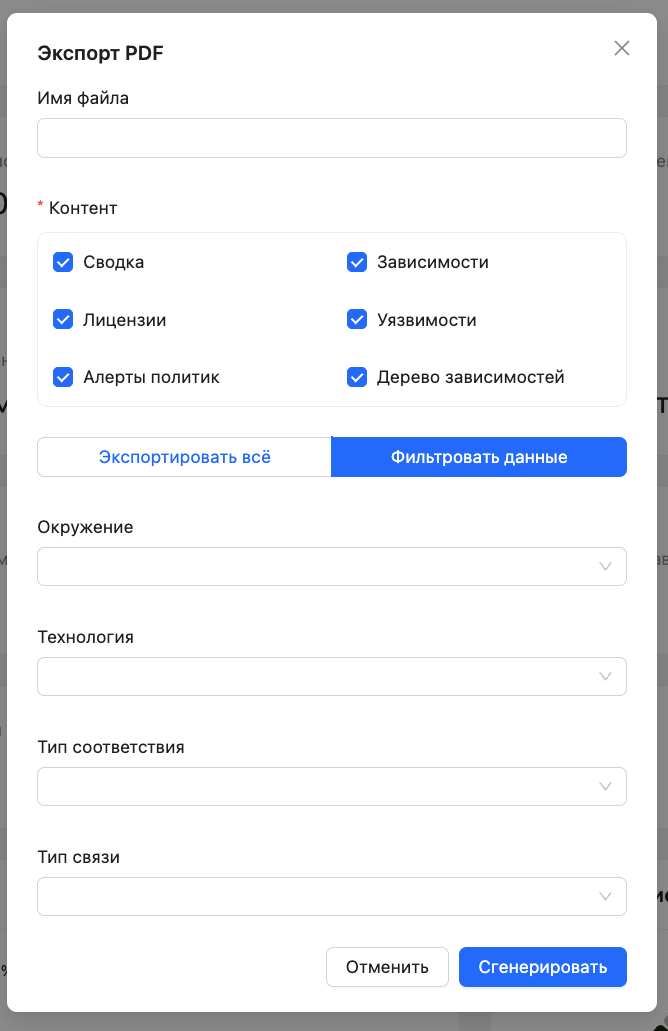
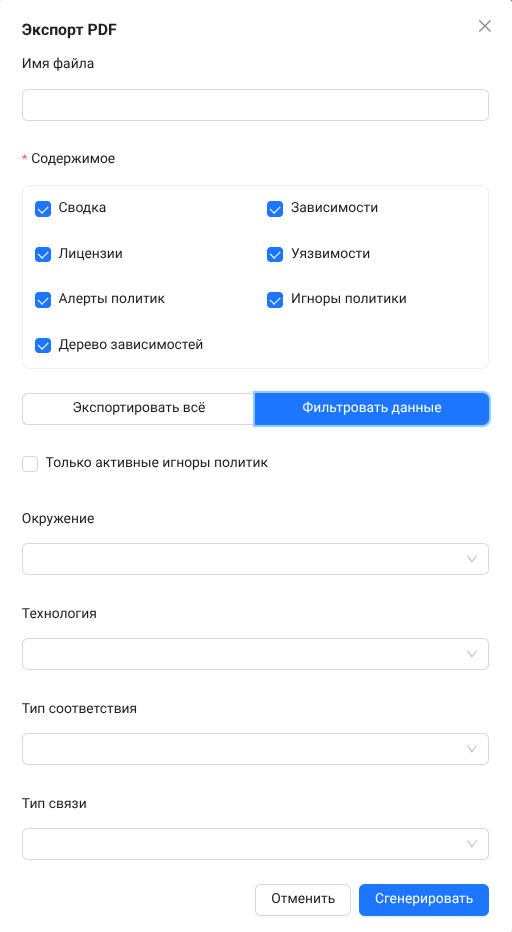
Добавлено в описание отчета игноры и обновлены скриншоты

diff --git a/docs/sca/export-results.md b/docs/sca/export-results.md
@@ -27,6 +27,7 @@ CSV-таблица будет учитывать использованные н
 - таблица найденных зависимостей с разделением по технологиям и окружению разработки;
 - таблица найденных уязвимостей с разделением по технологиям и окружению разработки;
 - таблица активных алертов политик;
+- таблица игноров политик;
 - граф зависимостей в виде дерева.
 
 Также есть возможность задать имя файла, выбрать необходимые блоки данных и отфильтровать данные перед генерацией отчета.

diff --git a/docs/sca/export-results.en.md b/docs/sca/export-results.en.md
@@ -26,7 +26,8 @@ The resulting report contains the following data by default:
 - distribution of vulnerabilities by technology;
 - table of found dependencies divided by technologies and development environment;
 - table of found vulnerabilities divided by technologies and development environment;
-- active policy alerts;
+- table of active policy alerts;
+- table of policies ignores;
 - dependency graph.
 
 It's also possible to define a custom filename, choose required data blocks and filter data before export.
